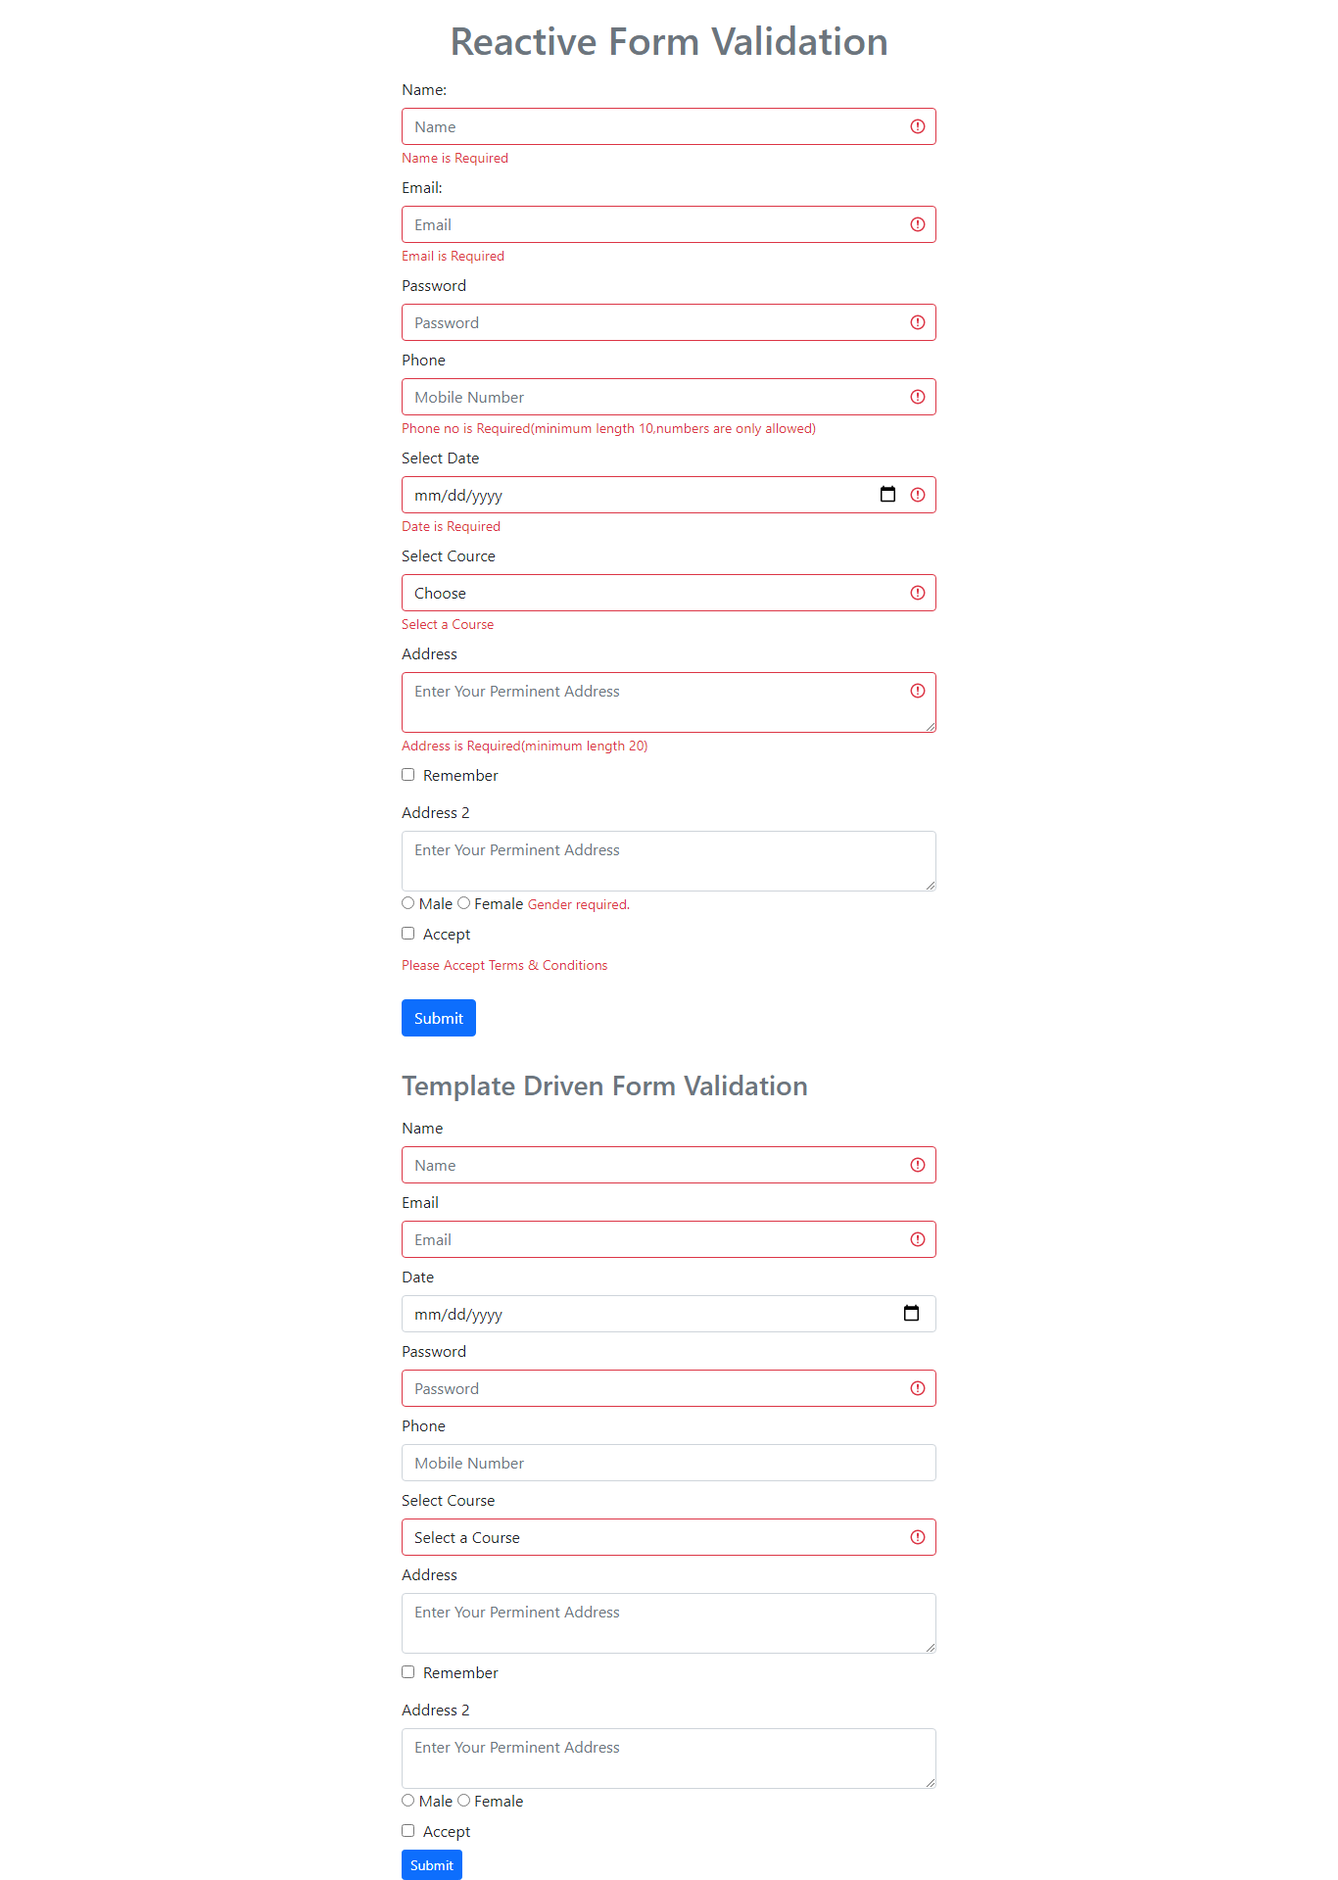
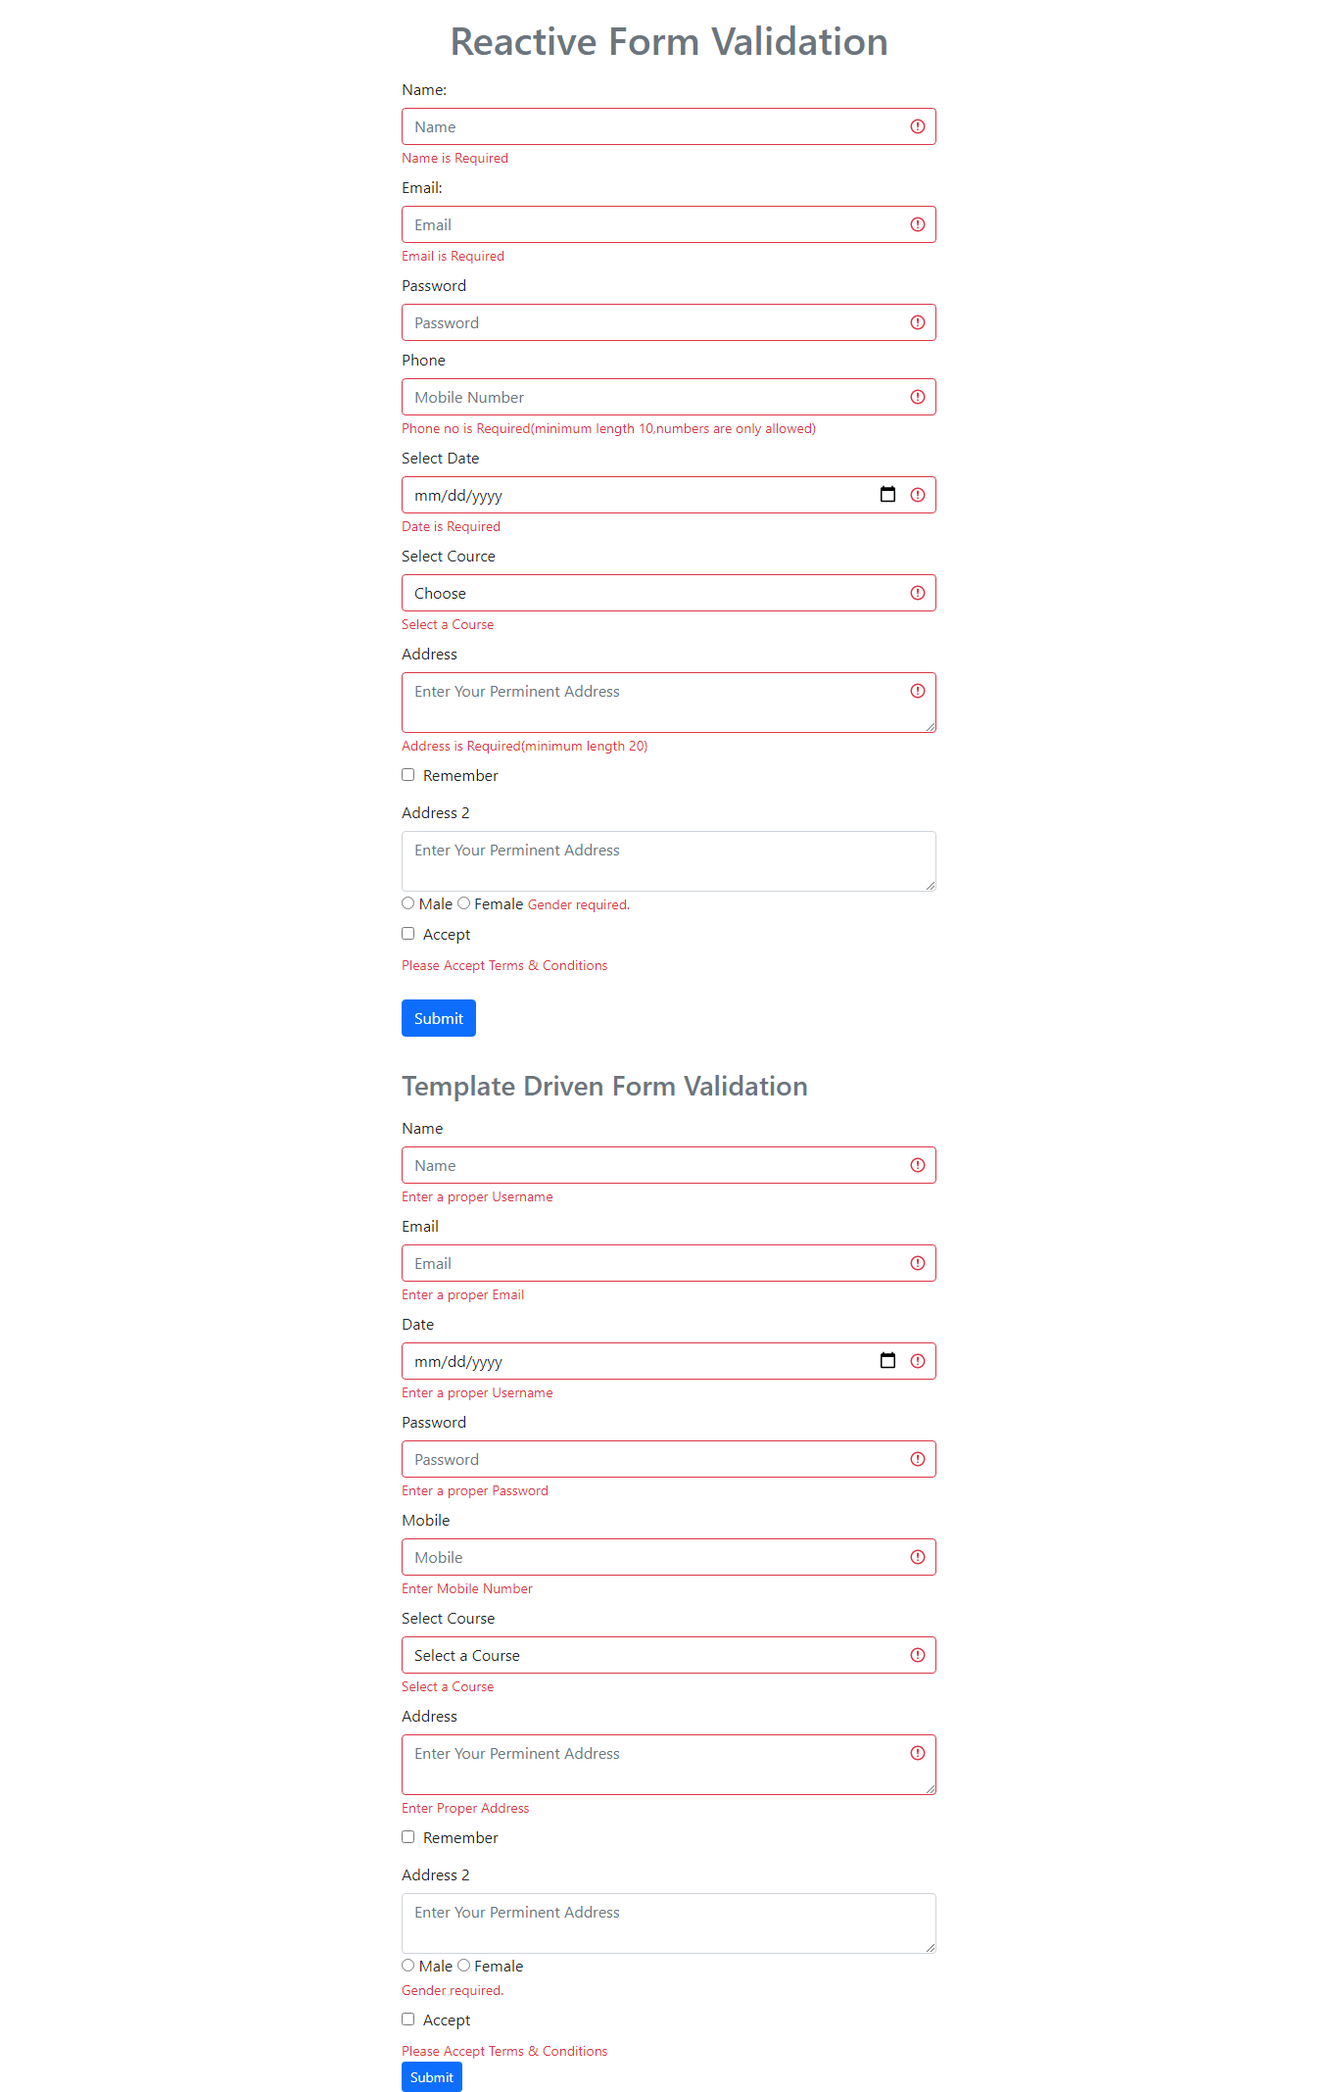
Form Validations

diff --git a/15-angular-form-validations/src/app/template-forms/template-forms.component.html b/15-angular-form-validations/src/app/template-forms/template-forms.component.html
@@ -1,188 +1,207 @@
 <div class="container mt-3">
-    <!--<pre>{{user | json}}</pre>-->
-      <div class="row justify-content-sm-center">
-        <div class="col-md-6 m-auto">
-          <p class="h3 text-secondary">Template Driven Form Validation</p>
-              <form #enrollmentForm="ngForm" (submit)="submitEnroll()">
-                  <label class="col-form-label">Name</label>
-                <div class="form-group">
-                  <input
-                    #username="ngModel"
-                    name="username"
-                    [(ngModel)]="user.username"
-                    [class.is-invalid]="(username.touched || enrollmentForm.submitted ) && username.invalid"
-                    [class.is-valid]="username.touched  && username.valid"
-                    type="text" class="form-control" placeholder="Name"
-                    required pattern="^[a-zA-Z0-9_]{3,16}$"
-                    >
-                    <div *ngIf="username.touched && username.invalid">
-                      <small class="text-danger">Enter a proper Username</small>
-                    </div>
-                  <small *ngIf="username.touched && username.valid" class="text-success">
-                    Looks Good
-                  </small>
-                </div>
-                <div class="form-group">
-                    <label class="col-form-label">Email</label>
-                  <input
-                    #email="ngModel"
-                    name="email"
-                    [(ngModel)]="user.email"
-                    [class.is-invalid]="(email.touched || enrollmentForm.submitted ) && email.invalid"
-                    [class.is-valid]="email.touched && email.valid"
-                    type="email" class="form-control" placeholder="Email"
-                    required pattern="^\w+([\.-]?\w+)*@\w+([\.-]?\w+)*(\.\w{2,3})+$">
-                  <div *ngIf="email.touched && email.invalid">
-                    <small class="text-danger">Enter a proper Email</small>
+  <!--<pre>{{user | json}}</pre>-->
+    <div class="row justify-content-sm-center">
+      <div class="col-md-6 m-auto">
+        <p class="h3 text-secondary">Template Driven Form Validation</p>
+        <!-- (ngSubmit)="submitEnroll(); enrollmentForm.resetForm() -->
+            <form #enrollmentForm="ngForm" (submit)="submitEnroll()">
+                <label class="col-form-label">Name</label>
+              <div class="form-group">
+                <input
+                  #username="ngModel"
+                  name="username"
+                  [(ngModel)]="user.username"
+                  [class.is-invalid]="(username.touched || enrollmentForm.submitted ) && username.invalid"
+                  [class.is-valid]="username.touched  && username.valid"
+                  type="text" class="form-control" placeholder="Name"
+                  required pattern="^[a-zA-Z0-9_]{3,16}$"
+                  >
+                  <div *ngIf="(username.touched || enrollmentForm.submitted ) && username.invalid">
+                    <small class="text-danger">Enter a proper Username</small>
                   </div>
-                  <small *ngIf="email.touched && email.valid" class="text-success">
-                    Looks Good
-                  </small>
+                <small *ngIf="username.touched && username.valid" class="text-success">
+                  Looks Good
+                </small>
+              </div>
+              <div class="form-group">
+                  <label class="col-form-label">Email</label>
+                <input
+                  #email="ngModel"
+                  name="email"
+                  [(ngModel)]="user.email"
+                  [class.is-invalid]="(email.touched || enrollmentForm.submitted ) && email.invalid"
+                  [class.is-valid]="email.touched && email.valid"
+                  type="email" class="form-control" placeholder="Email"
+                  required pattern="^\w+([\.-]?\w+)*@\w+([\.-]?\w+)*(\.\w{2,3})+$">
+                <div *ngIf="(email.touched || enrollmentForm.submitted ) && email.invalid">
+                  <small class="text-danger">Enter a proper Email</small>
                 </div>
+                <small *ngIf="email.touched && email.valid" class="text-success">
+                  Looks Good
+                </small>
+              </div>
 
-                <div class="form-group">
-                    <label class="col-form-label">Date</label>
+              <div class="form-group">
+                  <label class="col-form-label">Date</label>
                   <input
-                    #date="ngModel"
-                    name="date"
-                    [(ngModel)]="user.date"
-                    [class.is-invalid]="(date.touched || enrollmentForm.submitted ) && date.invalid"
-                    [class.is-valid]="date.touched && date.valid"
-                    type="date" class="form-control"
-                    >
-                    <div *ngIf="date.touched && date.invalid">
-                      <small class="text-danger">Enter a proper Username</small>
-                    </div>
-                  <small *ngIf="date.touched && date.valid" class="text-success">
-                    Looks Good
-                  </small>
-                </div>
+                  #date="ngModel"
+                  name="date"
+                  [(ngModel)]="user.date"
+                  [class.is-invalid]="(date.touched || enrollmentForm.submitted ) && date.invalid"
+                  [class.is-valid]="date.touched  && date.valid"
+                  type="date" class="form-control" placeholder="bgnvnn"
+                  required 
+                  >
+                  <div *ngIf="(date.touched || enrollmentForm.submitted ) && date.invalid">
+                    <small class="text-danger">Enter a proper Username</small>
+                  </div>
+                <small *ngIf="date.touched && date.valid" class="text-success">
+                  Looks Good
+                </small>
+              </div>
 
-                <div class="form-group">
-                    <label class="col-form-label">Password</label>
+              <div class="form-group">
+                  <label class="col-form-label">Password</label>
+                <input
+                  #password="ngModel"
+                  name="password"
+                  [(ngModel)]="user.password"
+                  [class.is-invalid]="(password.touched || enrollmentForm.submitted ) && password.invalid"
+                  [class.is-valid]="password.touched && password.valid"
+                  type="password" class="form-control" placeholder="Password"
+                  required pattern="^(?=.*\d)(?=.*[a-z])(?=.*[A-Z]).{6,20}$">
+                <div *ngIf="(password.touched || enrollmentForm.submitted ) && password.invalid">
+                  <small class="text-danger">Enter a proper Password</small>
+                </div>
+                <small *ngIf="password.touched && password.valid" class="text-success">
+                  Looks Good
+                </small>
+              </div>
+
+              <div class="form-group">
+                  <label class="col-form-label">Mobile</label>
                   <input
-                    #password="ngModel"
-                    name="password"
-                    [(ngModel)]="user.password"
-                    [class.is-invalid]="(password.touched || enrollmentForm.submitted ) && password.invalid"
-                    [class.is-valid]="password.touched && password.valid"
-                    type="password" class="form-control" placeholder="Password"
-                    required pattern="^(?=.*\d)(?=.*[a-z])(?=.*[A-Z]).{6,20}$">
-                  <div *ngIf="password.touched && password.invalid">
-                    <small class="text-danger">Enter a proper Password</small>
+                  #phone="ngModel"
+                  name="phone"
+                  [(ngModel)]="user.phone"
+                  [class.is-invalid]="(phone.touched || enrollmentForm.submitted ) && phone.invalid"
+                  [class.is-valid]="phone.touched  && phone.valid"
+                  type="number" class="form-control" placeholder="Mobile"
+                  required 
+                  >
+                  <div *ngIf="(phone.touched || enrollmentForm.submitted ) && phone.invalid">
+                    <small class="text-danger">Enter Mobile Number</small>
                   </div>
-                  <small *ngIf="password.touched && password.valid" class="text-success">
+                  <small *ngIf="phone.touched && phone.valid" class="text-success">
                     Looks Good
                   </small>
                 </div>
 
-                <div class="form-group">
-                    <label class="col-form-label">Phone</label>
-                    <input #phone="ngModel" 
-                    name="phone"
-                    [(ngModel)]="user.phone"
-                    type="number" maxlength="10" placeholder="Mobile Number" class="form-control" 
-                    [class.is-invalid]="(phone.touched || enrollmentForm.submitted ) && phone.invalid"
-                    [class.is-valid]="phone.touched && phone.valid"
-                    />
-                    <small *ngIf="phone.invalid && phone.touched" class="text-danger"
-                      >Phone no is Required(minimum length 10,numbers are only
-                      allowed)</small
-                    >
-                  </div>
+              <div class="form-group">
+                  <label class="col-form-label">Select Course</label>
+                <select
+                  #course="ngModel"
+                  name="course"
+                  [(ngModel)]="user.course"
+                  [class.is-invalid]="(course.touched || enrollmentForm.submitted ) && course.invalid"
+                  [class.is-valid]="course.touched && course.valid"
+                  class="form-control"
+                  required>
+                  <option value="">Select a Course</option>
+                  <option *ngFor="let course of courses" [value]="course">{{course}}</option>
+                </select>
+                <div *ngIf="(course.touched || enrollmentForm.submitted ) && course.invalid">
+                  <small class="text-danger">Select a Course</small>
+                </div>
+                <small *ngIf="course.touched && course.valid" class="text-success">
+                  Looks Good
+                </small>
+              </div>
 
-                <div class="form-group">
-                    <label class="col-form-label">Select Course</label>
-                  <select
-                    #course="ngModel"
-                    name="course"
-                    [(ngModel)]="user.course"
-                    [class.is-invalid]="(course.touched || enrollmentForm.submitted ) && course.invalid"
-                    [class.is-valid]="course.touched && course.valid"
+              <div class="form-group">
+                  <label class="col-form-label">Address</label>
+
+                  <textarea
+                  #address="ngModel"
+                  name="address"
+                  [(ngModel)]="user.address"
+                  [class.is-invalid]="(address.touched || enrollmentForm.submitted ) && address.invalid"
+                  [class.is-valid]="address.touched  && address.valid"
+                  type="text" class="form-control" placeholder="Enter Your Perminent Address"
+                  required 
+                  ></textarea>
+                  <div *ngIf="(address.touched || enrollmentForm.submitted ) && address.invalid">
+                    <small class="text-danger">Enter Proper Address</small>
+                  </div>
+                  <small *ngIf="address.touched && address.valid" class="text-success">
+                    Looks Good
+                  </small>
+
+                  <!-- <textarea 
+                  name="address"
+                  #address="ngModel"          
+                  [(ngModel)]="user.address"     
                     class="form-control"
-                    required>
-                    <option value="">Select a Course</option>
-                    <option *ngFor="let course of courses" [value]="course">{{course}}</option>
-                  </select>
-                  <div *ngIf="course.touched && course.invalid">
-                    <small class="text-danger">Select a Course</small>
-                  </div>
-                  <small *ngIf="course.touched && course.valid" class="text-success">
-                    Looks Good
-                  </small>
+                   placeholder="Enter Your Perminent Address"
+                  [class.is-invalid]="(address.touched || enrollmentForm.submitted ) && address.invalid"
+                  [class.is-valid]="address.touched && address.valid"
+                  ></textarea> -->
+                  <small *ngIf="address.invalid && address.touched" class="text-danger">
+                    Address is Required(minimum length 20)</small
+                  >
                 </div>
 
                 <div class="form-group">
-                    <label class="col-form-label">Address</label>
-                    <textarea name="address"
-                    #address="ngModel"          
-                    [(ngModel)]="user.address"     
-                      class="form-control"
-                     placeholder="Enter Your Perminent Address"
-                    [class.is-invalid]="(address.touched || enrollmentForm.submitted ) && address.invalid"
-                    [class.is-valid]="address.touched && address.valid"
-                    ></textarea>
-                    <small *ngIf="address.invalid && address.touched" class="text-danger">
-                      Address is Required(minimum length 20)</small
-                    >
-                  </div>
+                  <input type="checkbox" (change)="remember($event)"
+                  >
+                  &nbsp;<label class="col-form-label"> Remember</label>
+               </div>
 
-                  <div class="form-group">
-                    <input type="checkbox" (change)="remember($event)"
-                    >
-                    &nbsp;<label class="col-form-label"> Remember</label>
-                 </div>
-
-                 <div class="form-group">
-                    <label class="col-form-label">Address 2</label>
-                    <textarea name="address2"
-                    #address2 ="ngModel"
-                    [(ngModel)]="user.address2"
-                    [value]="user.address2"
-                     class="form-control" 
-                    placeholder="Enter Your Perminent Address"
-                   
-                    ></textarea>
-                  </div>
+               <div class="form-group">
+                  <label class="col-form-label">Address 2</label>
+                  <textarea name="address2"
+                  #address2 ="ngModel"
+                  [(ngModel)]="user.address2"
+                  [value]="user.address2"
+                   class="form-control" 
+                  placeholder="Enter Your Perminent Address"
+                 
+                  ></textarea>
+                </div>
 
 
-                  <div class="form-group">
-                    <input type="radio" value="male" 
-                      #gender="ngModel" name="gender"
-                      [(ngModel)]="user.gender"
-                      [class.is-invalid]="(gender.touched || enrollmentForm.submitted ) && address.invalid"
-                      [class.is-valid]="gender.touched && address.valid"
-                      
-                    > Male
-                    <input type="radio" value="female" 
+                <div class="form-group">
+                  <input type="radio" value="male" 
                     #gender="ngModel" name="gender"
                     [(ngModel)]="user.gender"
-                    > Female
-          
-                    <small *ngIf="gender.invalid && gender.touched" class="text-danger">
-                      Gender required. </small
-                    >
-                  </div>
-
-                  <div class="form-group">
-                    <input type="checkbox" name="isTCAccepted"
-                     #isTCAccepted ="ngModel"   
-                     [(ngModel)]="user.isTCAccepted"      
-                    [class.is-invalid]="(isTCAccepted.touched || enrollmentForm.submitted ) && isTCAccepted.invalid"
-                    [class.is-valid]="isTCAccepted.touched && isTCAccepted.valid"
-                    >
-                    &nbsp;<label class="col-form-label"> Accept</label>
-         
-                    <br><small *ngIf="isTCAccepted.invalid && isTCAccepted.touched" class="text-danger">
-                    Please Accept Terms & Conditions</small
-                   >
-         
+                  > Male
+                  <input type="radio" value="female" 
+                  #gender="ngModel" name="gender"
+                  [(ngModel)]="user.gender"
+                  > Female
+                   <br>
+                  <small *ngIf="gender.pristine  && enrollmentForm.submitted" class="text-danger">
+                    Gender required. </small
+                  > 
                  </div>
 
-                <div>
-                  <input type="submit" class="btn btn-primary btn-sm" value="Submit">
-                </div>
-              </form>
-        </div>
+                <div class="form-group">
+                  <input type="checkbox" name="isTCAccepted"
+                   #isTCAccepted ="ngModel"   
+                   [(ngModel)]="user.isTCAccepted"      
+                  >
+                  &nbsp;<label class="col-form-label"> Accept</label>
+       
+                  <br><small *ngIf="isTCAccepted.pristine && enrollmentForm.submitted" class="text-danger">
+                  Please Accept Terms & Conditions</small
+                 >
+       
+               </div>
+
+              <div>
+                <input type="submit" class="btn btn-primary btn-sm" value="Submit">
+              </div>
+            </form>
       </div>
-  </div>
+    </div>
+</div>
